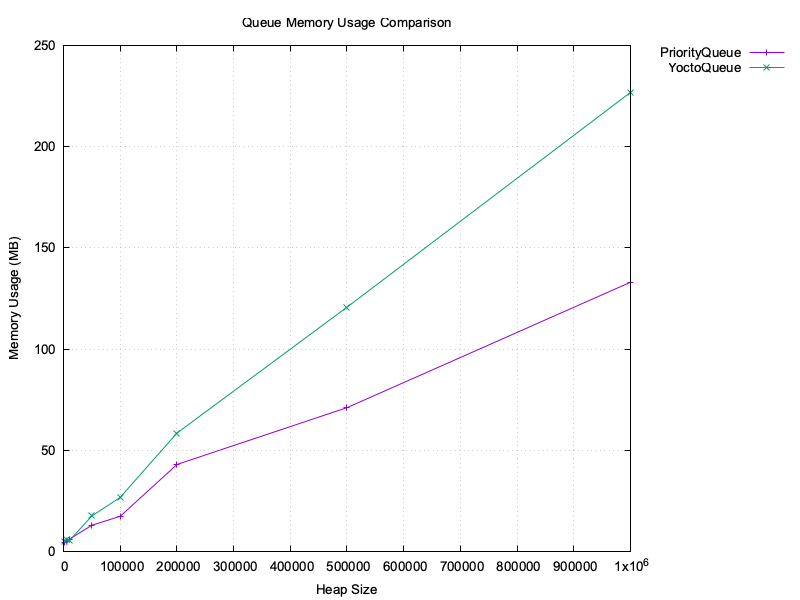
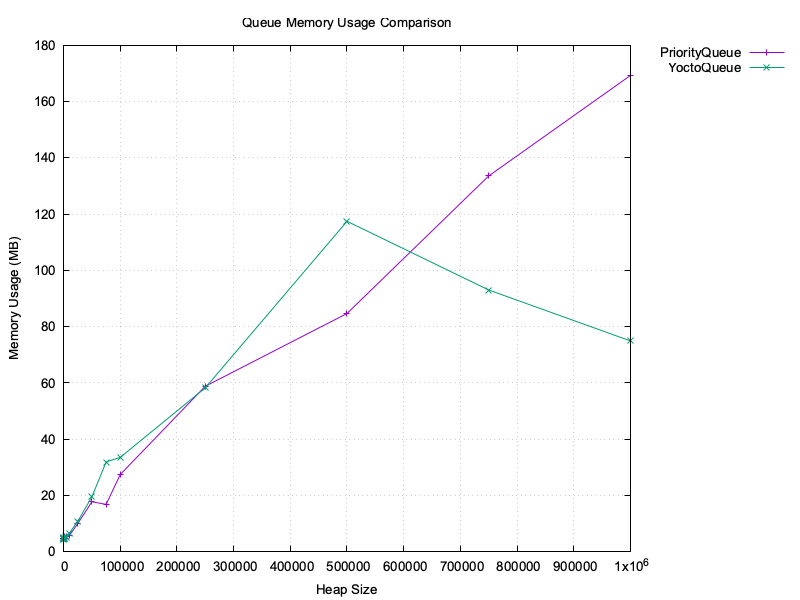
fix: パフォーマンス測定を踏まえて実装を変更

diff --git a/src/index.ts b/src/index.ts
@@ -1,143 +1,162 @@
-type Entry<T> = { value: T; priority: number };
-type CompareFn<T> = (a: Entry<T>, b: Entry<T>) => number;
+type QueueElement<T> = {
+  value: T;
+  priority: number;
+};
+
+type CompareFn<T> = (a: QueueElement<T>, b: QueueElement<T>) => number;
 
 export class PriorityQueue<T> {
-  private heap: Entry<T>[] = [];
-  private compare: CompareFn<T>;
+  #heap: QueueElement<T>[] = [];
+  #compare: CompareFn<T>;
 
   constructor(isMinHeap = true) {
-    this.compare = isMinHeap ? (a, b) => a.priority - b.priority : (a, b) => b.priority - a.priority;
+    this.#compare = isMinHeap ? (a, b) => a.priority - b.priority : (a, b) => b.priority - a.priority;
   }
 
-  setMinHeap(): void {
-    this.compare = (a, b) => a.priority - b.priority;
-    this.reheapify();
+  public setMinHeap(): void {
+    this.#compare = (a, b) => a.priority - b.priority;
+    this.#reheapify();
   }
 
-  setMaxHeap(): void {
-    this.compare = (a, b) => b.priority - a.priority;
-    this.reheapify();
+  public setMaxHeap(): void {
+    this.#compare = (a, b) => b.priority - a.priority;
+    this.#reheapify();
   }
 
-  enqueue(value: T, priority: number): void {
+  public enqueue(value: T, priority: number): void {
     const node = { value, priority };
-    this.heap.push(node);
-    this.bubbleUp();
+    this.#heap.push(node);
+    this.#bubbleUp();
   }
 
-  dequeue(): T | undefined {
-    if (this.heap.length === 0) return undefined;
+  public dequeue(): T | undefined {
+    if (this.isEmpty()) return undefined;
 
-    const top = this.heap[0];
-    const end = this.heap.pop();
-    if (this.heap.length > 0 && end) {
-      this.heap[0] = end;
-      this.bubbleDown();
+    const top = this.#heap[0];
+    const end = this.#heap.pop();
+
+    if (this.#heap.length > 0 && end) {
+      this.#heap[0] = end;
+      this.#bubbleDown();
     }
 
     return top.value;
   }
 
-  drain(): T[] {
-    const sorted = this.heap.slice().sort(this.compare);
-    this.heap.length = 0;
-    return sorted.map((e) => e.value);
+  public peek(): T | undefined {
+    return this.#heap[0]?.value;
   }
 
-  peek(): T | undefined {
-    return this.heap[0]?.value;
+  public isEmpty(): boolean {
+    return this.#heap.length === 0;
+  }
+
+  get size(): number {
+    return this.#heap.length;
   }
 
   *[Symbol.iterator](): IterableIterator<T> {
-    for (const entry of this.heap) {
+    for (const entry of this.#heap) {
       yield entry.value;
     }
   }
 
-  get size(): number {
-    return this.heap.length;
+  *drain(): Generator<T, void, unknown> {
+    while (!this.isEmpty()) {
+      const value = this.dequeue();
+      if (value !== undefined) {
+        yield value;
+      }
+    }
   }
 
-  isEmpty(): boolean {
-    return this.heap.length === 0;
+  /**
+   * drainFast: 優先度順で全て取り出すが、dequeue() を使わず O(n log n) を一括で行う
+   */
+  public drainFast(): T[] {
+    const sorted = [...this.#heap].sort(this.#compare);
+    this.#heap = [];
+    return sorted.map((item) => item.value);
   }
 
-  private bubbleUp(): void {
-    let idx = this.heap.length - 1;
-    const element = this.heap[idx];
-    const cmp = this.compare;
+  #bubbleUp(): void {
+    let index = this.#heap.length - 1;
+    const element = this.#heap[index];
+    const compare = this.#compare;
 
-    while (idx > 0) {
-      const parentIdx = Math.floor((idx - 1) / 2);
-      const parent = this.heap[parentIdx];
-      if (cmp(element, parent) >= 0) break;
-      this.heap[idx] = parent;
-      idx = parentIdx;
+    while (index > 0) {
+      const parentIndex = Math.floor((index - 1) / 2);
+      const parent = this.#heap[parentIndex];
+
+      if (compare(element, parent) >= 0) break;
+
+      this.#heap[index] = parent;
+      index = parentIndex;
     }
 
-    this.heap[idx] = element;
+    this.#heap[index] = element;
   }
 
-  private bubbleDown(): void {
-    const length = this.heap.length;
-    const cmp = this.compare;
-    const element = this.heap[0];
-    let idx = 0;
+  #bubbleDown(): void {
+    const length = this.#heap.length;
+    const element = this.#heap[0];
+    const compare = this.#compare;
+    let index = 0;
 
     while (true) {
-      const leftIdx = 2 * idx + 1;
-      const rightIdx = 2 * idx + 2;
-      let swapIdx = idx;
+      const leftIndex = 2 * index + 1;
+      const rightIndex = 2 * index + 2;
+      let smallest = index;
 
-      if (leftIdx < length && cmp(this.heap[leftIdx], this.heap[swapIdx]) < 0) {
-        swapIdx = leftIdx;
+      if (leftIndex < length && compare(this.#heap[leftIndex], this.#heap[smallest]) < 0) {
+        smallest = leftIndex;
       }
 
-      if (rightIdx < length && cmp(this.heap[rightIdx], this.heap[swapIdx]) < 0) {
-        swapIdx = rightIdx;
+      if (rightIndex < length && compare(this.#heap[rightIndex], this.#heap[smallest]) < 0) {
+        smallest = rightIndex;
       }
 
-      if (swapIdx === idx) break;
+      if (smallest === index) break;
 
-      // swap without intermediate write
-      this.heap[idx] = this.heap[swapIdx];
-      idx = swapIdx;
+      this.#heap[index] = this.#heap[smallest];
+      index = smallest;
     }
 
-    this.heap[idx] = element;
+    this.#heap[index] = element;
   }
 
-  private reheapify(): void {
-    for (let i = Math.floor(this.heap.length / 2) - 1; i >= 0; i--) {
-      this.bubbleDownFrom(i);
+  #reheapify(): void {
+    for (let i = Math.floor(this.#heap.length / 2) - 1; i >= 0; i--) {
+      this.#bubbleDownFrom(i);
     }
   }
 
-  private bubbleDownFrom(startIndex: number): void {
-    const length = this.heap.length;
-    const element = this.heap[startIndex];
-    const cmp = this.compare;
-    let idx = startIndex;
+  #bubbleDownFrom(startIndex: number): void {
+    if (!this.#heap[startIndex]) return;
+    const length = this.#heap.length;
+    const element = this.#heap[startIndex];
+    const compare = this.#compare;
+    let index = startIndex;
 
     while (true) {
-      const leftIdx = 2 * idx + 1;
-      const rightIdx = 2 * idx + 2;
-      let smallest = idx;
+      const leftIndex = 2 * index + 1;
+      const rightIndex = 2 * index + 2;
+      let smallest = index;
 
-      if (leftIdx < length && cmp(this.heap[leftIdx], this.heap[smallest]) < 0) {
-        smallest = leftIdx;
+      if (leftIndex < length && compare(this.#heap[leftIndex], this.#heap[smallest]) < 0) {
+        smallest = leftIndex;
       }
 
-      if (rightIdx < length && cmp(this.heap[rightIdx], this.heap[smallest]) < 0) {
-        smallest = rightIdx;
+      if (rightIndex < length && compare(this.#heap[rightIndex], this.#heap[smallest]) < 0) {
+        smallest = rightIndex;
       }
 
-      if (smallest === idx) break;
+      if (smallest === index) break;
 
-      this.heap[idx] = this.heap[smallest];
-      idx = smallest;
+      this.#heap[index] = this.#heap[smallest];
+      index = smallest;
     }
 
-    this.heap[idx] = element;
+    this.#heap[index] = element;
   }
 }

diff --git a/benchmark/compare.ts b/benchmark/compare.ts
@@ -3,7 +3,9 @@ import { performance } from "node:perf_hooks";
 import YoctoQueue from "yocto-queue";
 import { PriorityQueue } from "../src";
 
-const sizes = [1000, 5000, 10000, 50000, 100000, 200000, 500000, 1000000];
+const sizes = [
+  25, 50, 75, 100, 250, 500, 750, 1_000, 2_500, 5_000, 10_000, 25_000, 50_000, 75_000, 100_000, 250_000, 500_000, 750_000, 1_000_000,
+];
 
 type Result = {
   heapSize: number;

diff --git a/README.md b/README.md
@@ -18,6 +18,28 @@ TypeScript による柔軟な優先度付きキュー実装。
 | :-----------------------------------------------------------------------------------: | :---------------------------------------------------------------------------------------: |
 | ![Compare Time: yocto-queue vs @himenon/priority-queue](./benchmark/compare-time.png) | ![Compare Memory: yocto-queue vs @himenon/priority-queue](./benchmark/compare-memory.png) |
 
+
+## ⏱ Performance Considerations: `PriorityQueue` vs `yocto-queue`
+
+This implementation of `PriorityQueue` adopts a binary heap internally in order to support prioritized ordering. While this introduces higher time complexity compared to plain FIFO queues like [`yocto-queue`](https://github.com/sindresorhus/yocto-queue), it is a conscious trade-off that ensures ordering guarantees while maintaining low memory footprint.
+
+### 📊 Comparison Table
+
+| Operation    | `yocto-queue`       | `PriorityQueue` (this) | Complexity Increase | Reason |
+|--------------|---------------------|-------------------------|----------------------|--------|
+| `enqueue`    | `O(1)`              | `O(log n)`              | Yes 🔺               | Maintains heap order via `bubbleUp` |
+| `dequeue`    | `O(1)`              | `O(log n)`              | Yes 🔺               | Requires heap reordering via `bubbleDown` |
+| `peek`       | `O(1)`              | `O(1)`                  | No ✅                | Both read front/root value |
+| `drain`      | `O(n)`              | `O(n log n)`            | Yes 🔺               | Sequential `dequeue()` or heap sort |
+| Memory usage | Low (linked list)   | **Lower** (flat array)  | No ✅                | Binary heap stored as flat array (compact) |
+
+### 🧠 Why the Priority Queue is Slower
+
+Unlike `yocto-queue`, which is designed solely for FIFO operations and does not preserve any ordering beyond insertion time, `PriorityQueue` must always ensure that the highest or lowest priority item can be dequeued efficiently. This requires maintaining a partially ordered tree (heap), where insertion and removal involve comparisons and restructuring.
+
+Thus, the increase in time complexity from `O(1)` to `O(log n)` is **the necessary cost of enabling**
+
+
 ## LICENCE
 
 [@Himenon/priority-queue](https://github.com/Himenon/priority-queue)・MIT
